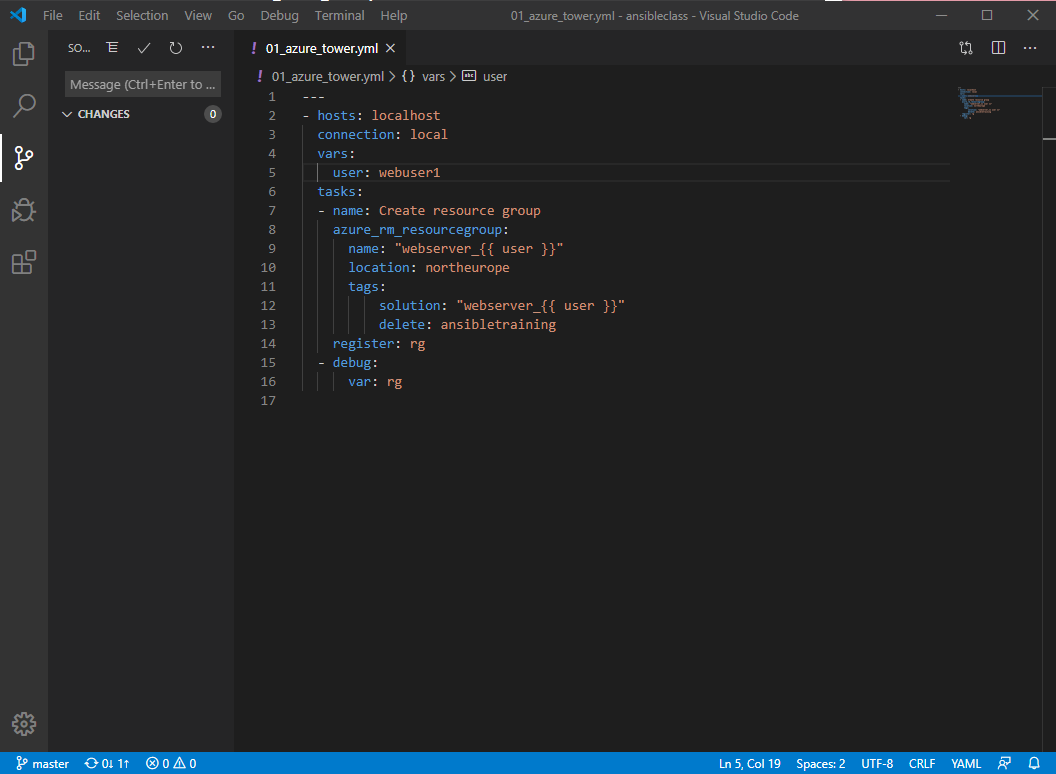
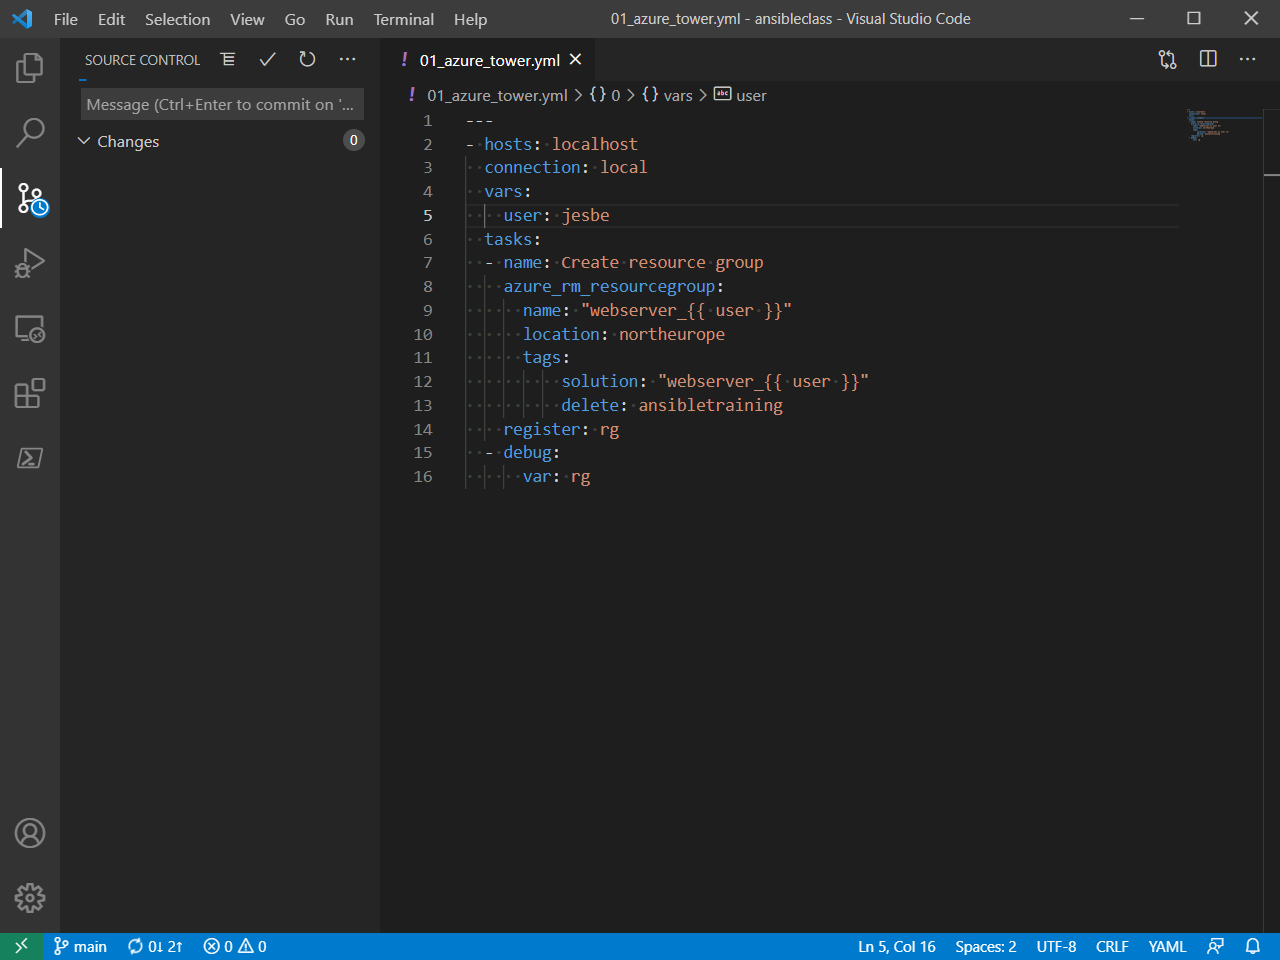
new playbook

diff --git a/lab08/lab8.md b/lab08/lab8.md
@@ -1,6 +1,6 @@
-# Lab 8: Ansible Automation Platform - Ansible Tower
+# Lab 8: Ansible Automation Platform - AWX / Ansible Tower
 
-In this session we will use Red Hat Ansible Automation Platform to orchestrate our ansible playbooks
+In this session we will use AWX / Ansible Tower to orchestrate our ansible playbooks
 
 ## Prepare
 
@@ -104,7 +104,7 @@ Create a copy of 01_azure.yml -> 01_azure_tower.yml
 
 Change the variable user: - We already have a Resource Group called Webserver_userx so you need to change it
 
-to __webuserx eg. "webuser1"__
+to __your initials eg. "jesbe"__
 
 Save and Commit
 
